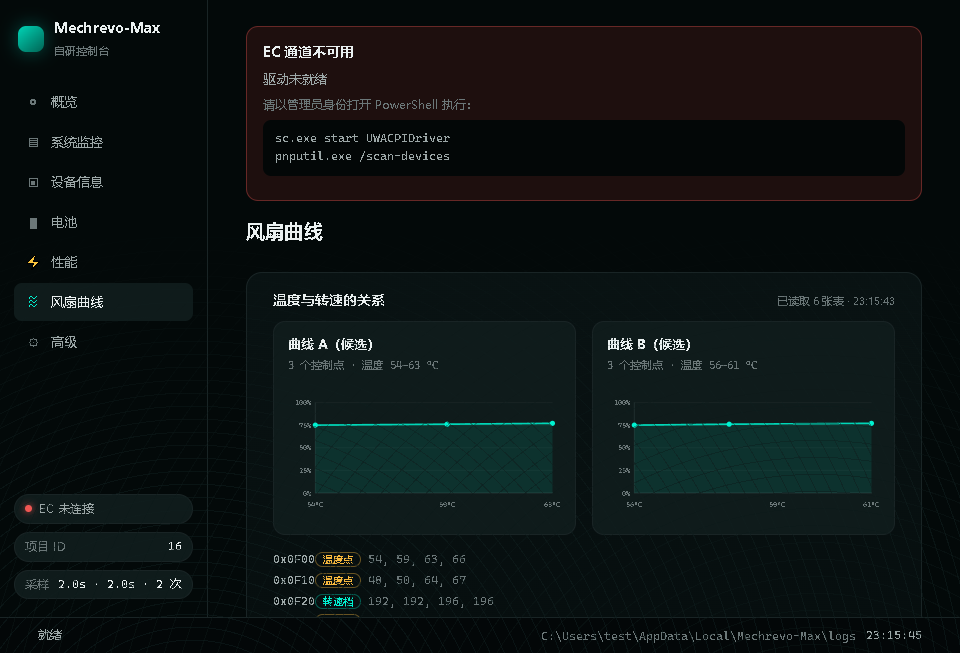
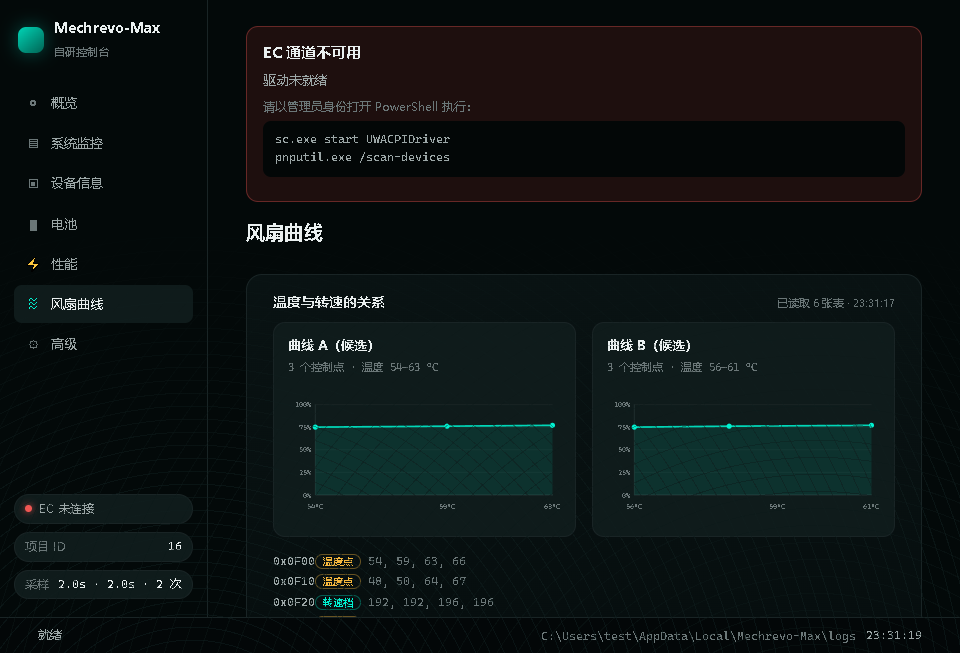
feat(v0.7.0): 托盘常驻 + 响应式增强
托盘（Q-05 拍板：只要托盘，不自启）：
- tauri tray-icon feature；setup_tray：显示主窗口/退出菜单，左键单击显示
- 关闭主窗口 = 隐藏到托盘（CloseRequested prevent_close + hide），退出走托盘菜单

响应式（前端 UI 增强 M1）：
- 字号 clamp(13px, 0.4vw+12.4px, 15px)；html height 100dvh
- ≥1280：内容 max-width 1320 + 仪表 4 列；<600：导航收图标、side-foot 隐藏、grid 单列
- nav 文字包 .nav-label 以支持收起

测试：qa_browser 37→40（响应式 3 断言）；真机 smoke：托盘初始化日志 + 关闭即隐藏进程存活
版本：0.6.0→0.7.0 三处一致；release exe 5 622 272 B（<6MiB 红线内）
证据：evidence/T-070-01.json

diff --git a/app/ui/style.css b/app/ui/style.css
@@ -31,8 +31,8 @@
 }
 
 * { box-sizing: border-box; }
-html, body { margin: 0; height: 100%; background: var(--bg); color: var(--text);
-  font-family: var(--font); font-size: 14px; line-height: 1.55; overflow: hidden; user-select: none; }
+html, body { margin: 0; height: 100dvh; background: var(--bg); color: var(--text);
+  font-family: var(--font); font-size: clamp(13px, 0.4vw + 12.4px, 15px); line-height: 1.55; overflow: hidden; user-select: none; }
 
 .mono { font-family: var(--mono); font-variant-numeric: tabular-nums; }
 .small { font-size: 11.5px; }
@@ -317,7 +317,13 @@ body[data-busy="true"] .btn { pointer-events: none; opacity: .6; }
   color: var(--danger); background: oklch(66% 0.19 25 / .12); border: 1px solid oklch(66% 0.19 25 / .35);
   max-width: 52ch; overflow: hidden; text-overflow: ellipsis; white-space: nowrap; }
 
-/* ---------- 窄窗口 ---------- */
+/* ---------- 大屏（≥1280，4K/缩放屏全窗口）---------- */
+@media (min-width: 1280px) {
+  .content > .page { max-width: 1320px; }
+  .gauge-grid { grid-template-columns: repeat(4, minmax(0, 1fr)); }
+}
+
+/* ---------- 窄窗口（半屏贴靠）---------- */
 @media (max-width: 900px) {
   .app { grid-template-columns: minmax(0, 1fr); grid-template-areas: "side" "content" "status"; }
   .sidebar { flex-direction: row; align-items: center; gap: var(--gap-sm); overflow-x: auto; border-right: 0;
@@ -325,6 +331,16 @@ body[data-busy="true"] .btn { pointer-events: none; opacity: .6; }
   .nav { display: flex; gap: 2px; }
   .side-foot { margin: 0 0 0 auto; grid-auto-flow: column; }
   .content { padding: var(--gap) var(--gap); }
+}
+
+/* ---------- 超窄（窄条贴靠，<600）---------- */
+@media (max-width: 600px) {
+  :root { --gap: 12px; --gap-lg: 18px; }
+  .side-brand strong, .side-brand em { display: none; }
+  .nav-item { padding: 9px; }
+  .nav-item .nav-label { display: none; }
+  .side-foot { display: none; }
+  .grid-2 { grid-template-columns: minmax(0, 1fr); }
 }
 
 /* ---------- 动效偏好 ---------- */

diff --git a/app/ui/index.html b/app/ui/index.html
@@ -22,13 +22,13 @@
       </div>
 
       <ul class="nav" id="nav">
-        <li><button class="nav-item" data-page="overview"><span class="nav-ico">◎</span>概览</button></li>
-        <li><button class="nav-item" data-page="monitor"><span class="nav-ico">▤</span>系统监控</button></li>
-        <li><button class="nav-item" data-page="device"><span class="nav-ico">▣</span>设备信息</button></li>
-        <li><button class="nav-item" data-page="battery"><span class="nav-ico">▮</span>电池</button></li>
-        <li><button class="nav-item" data-page="performance"><span class="nav-ico">⚡</span>性能</button></li>
-        <li><button class="nav-item" data-page="cooling"><span class="nav-ico">≋</span>风扇曲线</button></li>
-        <li><button class="nav-item" data-page="advanced"><span class="nav-ico">⚙</span>高级</button></li>
+        <li><button class="nav-item" data-page="overview"><span class="nav-ico">◎</span><span class="nav-label">概览</span></button></li>
+        <li><button class="nav-item" data-page="monitor"><span class="nav-ico">▤</span><span class="nav-label">系统监控</span></button></li>
+        <li><button class="nav-item" data-page="device"><span class="nav-ico">▣</span><span class="nav-label">设备信息</span></button></li>
+        <li><button class="nav-item" data-page="battery"><span class="nav-ico">▮</span><span class="nav-label">电池</span></button></li>
+        <li><button class="nav-item" data-page="performance"><span class="nav-ico">⚡</span><span class="nav-label">性能</span></button></li>
+        <li><button class="nav-item" data-page="cooling"><span class="nav-ico">≋</span><span class="nav-label">风扇曲线</span></button></li>
+        <li><button class="nav-item" data-page="advanced"><span class="nav-ico">⚙</span><span class="nav-label">高级</span></button></li>
       </ul>
 
       <div class="side-foot">

diff --git a/app/src-tauri/src/main.rs b/app/src-tauri/src/main.rs
@@ -1164,7 +1164,18 @@ fn main() {
         .manage(Arc::new(AppState::default()))
         .setup(|app| {
             fit_window_to_monitor(app);
+            setup_tray(app)?;
             Ok(())
+        })
+        .on_window_event(|window, event| {
+            // 点关闭 = 最小化到托盘（常驻控制台语义），真正的退出走托盘菜单。
+            // 仅拦截主窗口的关闭请求；托盘"退出"用 AppHandle::exit(0) 不经过此事件。
+            if let tauri::WindowEvent::CloseRequested { api, .. } = event {
+                if window.label() == "main" {
+                    api.prevent_close();
+                    let _ = window.hide();
+                }
+            }
         })
         .invoke_handler(tauri::generate_handler![
             get_status,
@@ -1213,6 +1224,60 @@ fn enable_dpi_awareness() {
 
 #[cfg(not(windows))]
 fn enable_dpi_awareness() {}
+
+/// 创建托盘图标与菜单.
+///
+/// 决策依据（`decisions.md` 2026-10-27 Q-05）：只要托盘、不开机自启。
+/// 菜单：显示主窗口 / 退出。左键单击 = 显示主窗口。
+fn setup_tray(app: &tauri::App) -> tauri::Result<()> {
+    use tauri::{
+        menu::{Menu, MenuItem},
+        tray::{MouseButton, MouseButtonState, TrayIconBuilder},
+        Manager,
+    };
+
+    let show = MenuItem::with_id(app, "show", "显示主窗口", true, None::<&str>)?;
+    let quit = MenuItem::with_id(app, "quit", "退出", true, None::<&str>)?;
+    let menu = Menu::with_items(app, &[&show, &quit])?;
+
+    let mut builder = TrayIconBuilder::with_id("main-tray")
+        .menu(&menu)
+        .show_menu_on_left_click(false)
+        .tooltip("机械革命控制台 · Mechrevo-Max")
+        .on_menu_event(|app, event| match event.id.as_ref() {
+            "show" => {
+                if let Some(w) = app.get_webview_window("main") {
+                    let _ = w.show();
+                    let _ = w.unminimize();
+                    let _ = w.set_focus();
+                }
+            }
+            "quit" => app.exit(0),
+            _ => {}
+        })
+        .on_tray_icon_event(|tray, event| {
+            if let tauri::tray::TrayIconEvent::Click {
+                button: MouseButton::Left,
+                button_state: MouseButtonState::Up,
+                ..
+            } = event
+            {
+                let app = tray.app_handle();
+                if let Some(w) = app.get_webview_window("main") {
+                    let _ = w.show();
+                    let _ = w.unminimize();
+                    let _ = w.set_focus();
+                }
+            }
+        });
+
+    if let Some(icon) = app.default_window_icon().cloned() {
+        builder = builder.icon(icon);
+    }
+    builder.build(app)?;
+    log::info!("[托盘] 初始化完成");
+    Ok(())
+}
 
 /// 按当前显示器尺寸调整窗口并居中.
 ///

diff --git a/test_ledger.md b/test_ledger.md
@@ -16,7 +16,7 @@
 | S4 | EC 写后读回 | `Ec::write_verified` | 驱动 `DeviceIoControl` 返回语义 | 不信返回值，一律读回比对；不符即 `Err` | 2026-10-24（mock） | **pending**（真机未复测） | `detects_write_verify_mismatch`；真机 `--ignored` 未跑 |
 | S5 | 寄存器地址表 | `core/src/namespace.rs` | `docs/protocol/ec-access.md` / `ec-baseline.md` | 地址、含义、`AddrStatus`、实测值一致 | 2026-10-24 | **locked**（人工核对） | 两文档 7 项地址与常量逐项比对一致 |
 | S6 | 撤销 ↔ 硬件状态 | `ModeChange::undo` / `ChangeRecord::undo` | EC 寄存器实际行为 | 撤销后寄存器回到快照值 | 2026-10-24（mock） | **pending**（"撤销后固件是否重新应用"未验证） | `switches_between_all_modes`（mock）；见 `ec-baseline.md` §6 |
-| S7 | 前端 DOM ↔ JS 映射 | `app/ui/index.html` 的 id | `app/ui/app.js` 的 `ui` 映射 | 当前 7 页 DOM id 与 ui 映射一致；缺失时首屏报错 | 2026-10-27 | **locked** | `tools/qa_browser.cjs` 37 断言（含 EC 异常三分支）+ `findMissingElements` 自检；`evidence/T-061-01.json` |
+| S7 | 前端 DOM ↔ JS 映射 | `app/ui/index.html` 的 id | `app/ui/app.js` 的 `ui` 映射 | 当前 7 页 DOM id 与 ui 映射一致；缺失时首屏报错 | 2026-10-27 | **locked** | `tools/qa_browser.cjs` 40 断言（含响应式 3 条 + EC 异常三分支）；`evidence/T-070-01.json` |
 | S8 | 前端交互 ↔ 后端命令 | 按钮/滑块事件 | `invoke(IPC.xxx)` 调用与返回值 | 成功/失败/禁用/脏检查/危险确认状态正确 | 2026-10-25 | **locked** | `tools/qa_browser.cjs` 21 断言，含取消不发 IPC、确认才发 IPC |
 | S9 | 发布产物 ↔ 源码 | `tag` 指向的提交 | Release 上的 `mechrevo-max.exe` | 产物由该提交构建；大小/哈希可核对 | 2026-10-25 | **locked** | v0.5.2：exe 5 446 144 B，sha256 `8935faff…1a65`；CI run 40155344884 三 job success |
 | S10 | 版本号 | `core/Cargo.toml` / `app/Cargo.toml` / `tauri.conf.json` | 发布 tag | 三处一致 + 与 tag 一致 | 2026-10-25 | **locked** | 三处均 0.5.2；tag v0.5.2；CI run 40155344884 全 success |
@@ -62,3 +62,5 @@
 | `app.js` 的 `IPC` 表 / `main.rs` 命令 | S1、S2、S8 |
 | `index.html` 的 id | S7、S8 |
 | 版本号 / 发版 | S9、S10 + `docs/DEPLOYMENT.md` §7 |
+
+| S12 | 托盘 ↔ 窗口生命周期 | `main.rs::setup_tray`/`on_window_event` | WebView2 主窗口 | 关闭=隐藏；托盘显示/退出可达 | 2026-10-27（真机 smoke） | **locked**（菜单点击待人工） | `evidence/T-070-01.json` |

diff --git a/project_specs.md b/project_specs.md
@@ -19,7 +19,7 @@
 | 名称 | Mechrevo-Max（机械革命自研控制台） |
 | 形态 | Windows x64 桌面应用（Rust `mechrevo-core` + Tauri v2） |
 | 仓库 | https://github.com/lza6/Mechrevo-Max |
-| 当前版本 | v0.6.0（风扇曲线写入；已推送 tag，CI 见 run 40332841600） |
+| 当前版本 | v0.7.0（托盘常驻 + 响应式；开发中，待发版） |
 | 主分支 HEAD | 见 `git log -1`（本文档自身提交后哈希会滞后一格，因此不写死）；已推送的 tag：`v0.1.0` ～ `v0.5.2` |
 | 规格基线 | `docs/SPEC.md`（安全红线在 §5.1） |
 
